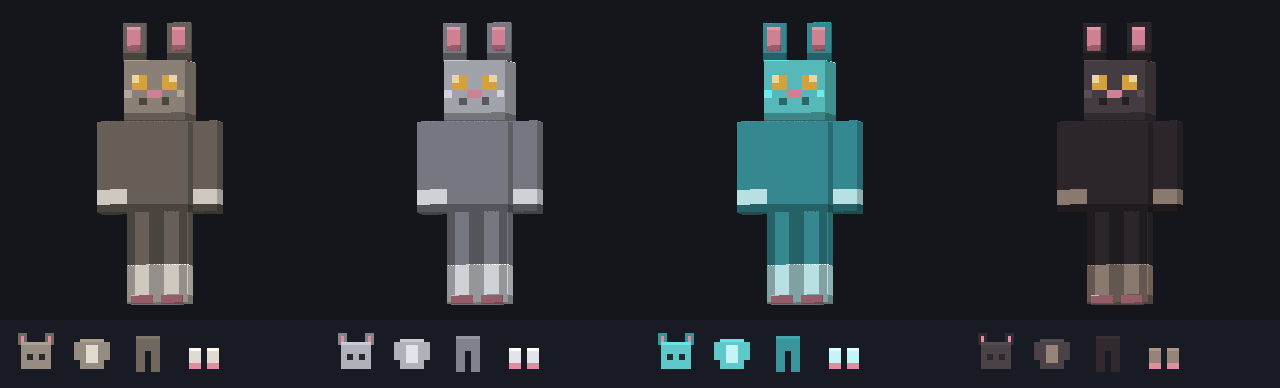
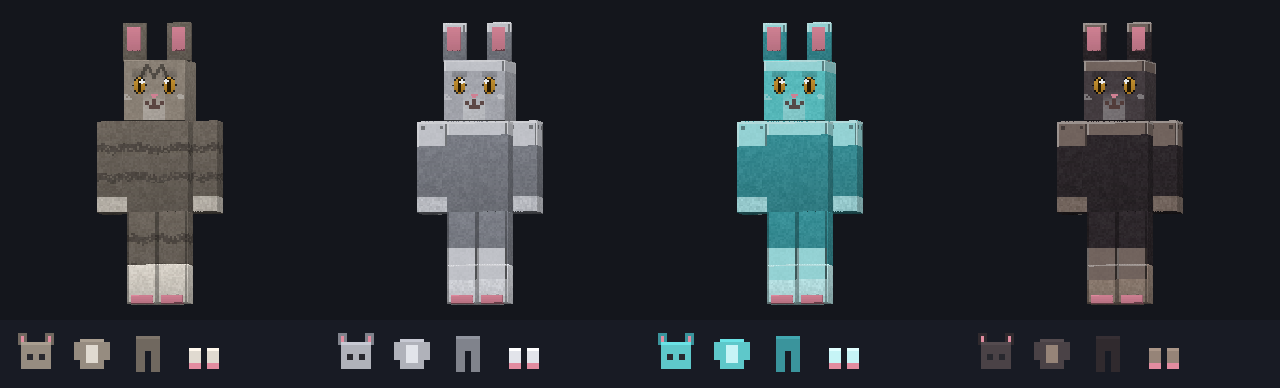
v3.41.0: dräkten får samma päls — fyra texlar per enhet
Spelarens kattdräkt var det sista som ritades i en texel per enhet; byxorna
bestod av tre färger. make_player_gear.py målar nu på ett 256x256-ark med
geometrin kvar på 64x64 (SKALA=4), med hjälparna från make_cat_pals.

Lädret är en tabby: ringar runt kropp, armar och ben, M i pannan, ansikte
med samma mandelögon, pupill, nos och ω-leende som katterna. Metallnivåerna
behåller pälsen i nivåns ton och får plåtar: pannband, bröstplåt med nitar,
axelkappor, bälte, knäskydd och tåhättor. Tassarna ljusa med dynor och
tåspringor, inga ringar.

Renderaren tar enheter= så ett ark i annan skala än geometrin samplas rätt;
purrfect-test tillåter heltalsmultipel för attachables.

Testat grönt inkl live-server, röktest och GameTest. Uppe på Mod Mate.

diff --git a/tools/make_player_gear.py b/tools/make_player_gear.py
@@ -32,12 +32,18 @@ avskalad).
 import json, math, os, sys
 
 BASE = os.path.dirname(os.path.dirname(os.path.abspath(__file__)))
-sys.path.insert(0, BASE)
+sys.path.insert(0, BASE); sys.path.insert(0, f"{BASE}/tools")
 import render_regression as rr
+from make_cat_pals import Duk, korn, blanda, skala, avst_segment, _h, ROSA, GLANS
 
 BP = f"{BASE}/PurrfectCompanions_BP"
 RP = f"{BASE}/PurrfectCompanions_RP"
-TW = TH = 64
+TW = TH = 64          # geometrins UV-ENHETER — arket är SKALA gånger det
+# FYRA TEXLAR PER ENHET sedan 3.41.0, samma mekanism som katternas pälsark:
+# geometrin deklarerar 64x64, PNG:en är 256x256 och Bedrock läser den tätare.
+# Innan dess bestod byxorna av tre färger och varje sida var ett färgfält —
+# bredvid katterna med ny päls såg spelaren ut som en kartong.
+SKALA = 4
 
 PALS      = (150, 140, 128, 255)   # varm kattgrå — syns mot både gräs och sten
 PALS_MORK = (112, 104, 95, 255)
@@ -199,57 +205,187 @@ def geometri(namn, cfg):
 
 
 def textur(namn, cfg, niv):
-    px = [[(0, 0, 0, 0)] * TW for _ in range(TH)]
+    """Dräktens ark. Läderdräkten är en tabbykatt (ringar runt kropp, armar och
+    ben, M i pannan, ränder över hjässan); metallnivåerna behåller pälsen i
+    nivåns ton och får PLÅTAR på: pannband, bröstplåt, axelkappor, bälte,
+    knäskydd och tåhättor. Så syns det på avstånd vilken nivå någon bär."""
+    n = NIVAER[niv]
+    duk = Duk(TW * SKALA, TH * SKALA)
+    pals, mork, ljus = n["pals"][:3], n["mork"][:3], n["ljus"][:3]
+    metall = bool(niv)
+    rand = None if metall else blanda(mork, (0, 0, 0), 0.30)
+    plat = blanda(ljus, pals, 0.35)
+    plat_ljus, plat_mork = blanda(plat, (255, 255, 255), 0.35), blanda(plat, (0, 0, 0), 0.40)
+    OG_MORK = (150, 100, 20)
 
-    def rect(x0, y0, w, h, c):
-        for y in range(int(y0), int(y0 + h)):
-            for x in range(int(x0), int(x0 + w)):
-                if 0 <= x < TW and 0 <= y < TH:
-                    px[y][x] = c
-    for b, origin, size, uv, farg0, _i in cfg["kuber"]:
-        farg = farga(farg0, niv)
+    def ytor(uv, size):
+        return {k: tuple(v * SKALA for v in r)
+                for k, r in rr.faces(uv[0], uv[1], *size).items()}
+
+    def pals_fn(bas, ringar=False, ring_rader=(0.30, 0.62)):
+        def fn(a, b, x, y):
+            c = skala(bas, 1.06 - 0.16 * b)
+            if rand and ringar:
+                for rb in ring_rader:
+                    if abs(b - rb + 0.02 * math.sin(a * 9)) < 0.045 and not (_h(x, y, 5) < 0.2):
+                        c = blanda(rand, c, 0.2)
+            return korn(c, x, y)
+        return fn
+
+    def plat_fn(rekt, nitar=True):
+        X0, Y0, FW, FH = rekt
+
+        def fn(a, b, x, y):
+            X, Y = a * FW, b * FH
+            c = plat
+            if X < 1.5 or Y < 1.5:
+                c = plat_ljus
+            elif X > FW - 1.5 or Y > FH - 1.5:
+                c = plat_mork
+            if nitar:
+                for nx in (3.0, FW - 3.0):
+                    for ny in (3.0, FH - 3.0):
+                        if abs(X - nx) < 1.0 and abs(Y - ny) < 1.0:
+                            c = plat_mork
+            return korn(c, x, y, 0.3)
+        return fn
+
+    def band(fn_pals, fn_plat, villkor):
+        """Plåt där villkor(a, b) gäller, päls annars."""
+        return lambda a, b, x, y: (fn_plat(a, b, x, y) if villkor(a, b) else fn_pals(a, b, x, y))
+
+    for b_, origin, size, uv, farg0, _i in cfg["kuber"]:
+        farg = farga(farg0, niv)[:3]
+        F = ytor(uv, size)
         w, h, d = size
-        fw, fh = fot(size)
-        rect(uv[0], uv[1], fw, fh, farg)
-        rect(uv[0], uv[1], fw, math.ceil(d), sh(farg, 1.14))
-        rect(uv[0], uv[1] + fh - 1, fw, 1, sh(farg, 0.72))
-        # KATTANSIKTET målas på huvudkubens framsida — utan det är luvan en
-        # slät låda på skallen, vilket är exakt vad som rapporterades från
-        # Xbox ("inga ögon"). Ögonen är bärnsten i alla nivåer: de ska läsa
-        # som katt även när materialet är diamant.
-        if b in ("leftLeg", "rightLeg"):
-            # KANTLINJE PÅ FRAM- OCH BAKSIDAN. Första försöket mörkade benens
-            # INNERSIDOR — men de ytorna sitter mellan benen och syns aldrig:
-            # när två lådor står kant i kant är ytorna mot varandra dolda.
-            # Det som syns är fram- och baksidan, så varje ben får en mörk
-            # pixelkant där. Då läser paret som två ben i stället för en
-            # pelare, vilket var felet: "fötterna smälter ihop".
-            _d, _w, _h = math.ceil(d), math.ceil(w), math.ceil(h)
-            for _fx in (uv[0] + _d, uv[0] + 2 * _d + _w):        # north, south
-                rect(_fx, uv[1] + _d, 1, _h, sh(farg, 0.72))
-                rect(_fx + _w - 1, uv[1] + _d, 1, _h, sh(farg, 0.72))
-        if b in ("leftArm", "rightArm"):
-            # MANSCHETT: sidytornas nedersta rader ligger sist i kubens
-            # utfällning (först djupet som topp/botten, sedan höjden). En ljus
-            # kant där ger armen ett tydligt slut i stället för att tona ut i
-            # spelarens hud.
-            rect(uv[0], uv[1] + fh - 3, fw, 2, farga(MAGE, niv))
+        SIDOR = ("north", "south", "east", "west")
+
         if namn == "luva" and size == [8, 8, 8]:
-            fx, fy = uv[0] + d, uv[1] + d
-            rect(fx + 1, fy + 2, 2, 2, OGON)          # vänster öga
-            # HÖGDAGERN SPEGLAS: båda låg på ögats vänstra pixel, vilket gav
-            # vänster öga glansen på utsidan och höger på insidan — ansiktet
-            # läste som att det sneglade ("ögonen sitter snett"). Allt annat i
-            # ansiktet var redan spegelsymmetriskt, uppmätt pixel för pixel.
-            rect(fx + 5, fy + 2, 2, 2, OGON)          # höger öga
-            rect(fx + 1, fy + 2, 1, 1, OGON_GLANS)
-            rect(fx + 6, fy + 2, 1, 1, OGON_GLANS)
-            rect(fx + 3, fy + 4, 2, 1, ORA_IN)        # nos
-            rect(fx + 2, fy + 5, 1, 1, sh(farg, 0.55))   # mungipor
-            rect(fx + 5, fy + 5, 1, 1, sh(farg, 0.55))
-            for mx in (fx, fx + 7):                   # morrhår
-                rect(mx, fy + 4, 1, 1, sh(farg, 1.3))
-    rr.write_png(f"{RP}/textures/entity/mjau_{ident(namn, niv)}.png", TW, TH, px)
+            # HJÄSSAN: ränder längs huvudet på läderdräkten, pannband på metall.
+            def hjassa(a, b, x, y):
+                c = skala(farg, 1.06)
+                if rand:
+                    for ca in (0.2, 0.5, 0.8):
+                        if abs(a - ca) < 0.045 + 0.02 * math.sin(b * 9 + ca * 5) and b > 0.1:
+                            c = blanda(rand, c, 0.15)
+                return korn(c, x, y)
+            duk.yta(F["top"], hjassa, 255)
+            duk.yta(F["bottom"], lambda a, b, x, y: korn(skala(farg, 0.7), x, y), 255)
+            for sida in ("east", "west", "south"):
+                fn = pals_fn(farg)
+                if metall:
+                    fn = band(fn, plat_fn(F[sida], nitar=False), lambda a, b: b < 0.2)
+                duk.yta(F[sida], fn, 255)
+            # ANSIKTET, samma anatomi som katternas: mandelögon med kant, iris
+            # i bärnsten, lodrät pupill och glans, rosa nos och ett ω-leende.
+            X0, Y0, FW, FH = F["north"]
+            OGON_C = [(FW * 0.25, FH * 0.42, +1), (FW * 0.75, FH * 0.42, -1)]
+            RX, RY = FW * 0.11, FH * 0.15
+            mork_ans = blanda(farg, (0, 0, 0), 0.75)
+            nosparti = blanda(farg, (255, 255, 255), 0.30)
+            mun = blanda(mork_ans, (150, 108, 104), 0.55)
+
+            def ansikte(a, b, x, y):
+                X, Y = a * FW, b * FH
+                c = farg
+                if metall and b < 0.2:
+                    return plat_fn(F["north"], nitar=False)(a, b, x, y)
+                if abs(a - 0.5) < 0.2 and b > 0.5:
+                    c = blanda(c, nosparti, min(1.0, (b - 0.5) / 0.25))
+                if rand and b < 0.36:
+                    m = [((8, 11), (12, 3)), ((12, 3), (16, 9)), ((16, 9), (20, 3)), ((20, 3), (24, 11))]
+                    m = [((p[0] * FW / 32, p[1] * FH / 32), (q[0] * FW / 32, q[1] * FH / 32)) for p, q in m]
+                    if min(avst_segment(X, Y, *p, *q) for p, q in m) < 0.8:
+                        c = blanda(rand, c, 0.15)
+                for cx, cy, _ in OGON_C:
+                    if abs(X - cx) < RX + 0.6 and Y < cy - RY:
+                        c = blanda(c, mork_ans, 0.28 * max(0.0, 1 - (cy - RY - Y) / (FH * 0.15)))
+                # morrhårsprickar
+                if abs(b - 0.62) < 0.05 and (a < 0.12 or a > 0.88) and _h(x, y, 7) < 0.5:
+                    c = blanda(c, (255, 255, 255), 0.35)
+                c = korn(c, x, y, 0.7)
+                # nosen och munnen
+                if abs(X - FW / 2) < 2.6 - (Y - FH * 0.55) * 0.9 and FH * 0.55 <= Y < FH * 0.68:
+                    return ROSA
+                if abs(X - FW / 2) < 0.9 and FH * 0.66 <= Y < FH * 0.76:
+                    return mun
+                if FH * 0.74 <= Y < FH * 0.80 and abs(X - FW / 2) < FW * 0.10:
+                    return mun
+                if FH * 0.69 <= Y < FH * 0.76 and FW * 0.09 < abs(X - FW / 2) < FW * 0.15:
+                    return mun
+                for cx, cy, inat in OGON_C:
+                    dx, dy = (X - cx) / RX, (Y - cy) / RY
+                    r = math.hypot(dx, dy)
+                    if r > 1.0:
+                        continue
+                    if r > 0.86:
+                        return mork_ans
+                    iris = blanda(OGON[:3], OG_MORK, max(0.0, min(1.0, 0.15 + 0.55 * (dy + 1) / 2)))
+                    if abs(X - cx) < 0.75 and abs(Y - cy) < RY * 0.70:
+                        iris = blanda(OG_MORK, (0, 0, 0), 0.75)
+                    if math.hypot(X - (cx + inat * RX * 0.42), Y - (cy - RY * 0.42)) < 1.15:
+                        iris = GLANS
+                    return iris
+                return c
+            duk.yta(F["north"], ansikte, 255)
+            continue
+
+        if farg0 == ORA_IN or farg0 == DYNA:
+            # inneröron och trampdynor: rosa, en aning mörkare nedåt
+            for sida in F:
+                duk.yta(F[sida], lambda a, b, x, y: blanda(farg, (0, 0, 0), 0.12 * b), 255)
+            continue
+
+        if namn == "luva":                                      # öronen
+            for sida in F:
+                fn = pals_fn(farg)
+                if metall:
+                    fn = band(fn, plat_fn(F[sida], nitar=False), lambda a, b: b < 0.25)
+                duk.yta(F[sida], fn, 255)
+            continue
+
+        if namn == "vast" and farg0 == MAGE:                    # bringan
+            for sida in F:
+                fn = plat_fn(F[sida]) if metall else pals_fn(farg)
+                duk.yta(F[sida], fn, 255)
+            continue
+
+        # KROPP, ARMAR, BEN, FÖTTER — päls med ringar på lädret, plåtar på metall.
+        for sida in ("top", "bottom"):
+            fn = pals_fn(farg)
+            if metall and namn == "tassar" and sida == "top":
+                fn = band(fn, plat_fn(F[sida], nitar=False), lambda a, b: b < 0.5)
+            duk.yta(F[sida], fn, 255)
+        for sida in SIDOR:
+            rekt = F[sida]
+            fn = pals_fn(farg, ringar=(namn != "tassar"))       # tassar är ljusa, inte randiga
+            if metall:
+                if b_ == "body" and namn == "byxor":
+                    fn = band(fn, plat_fn(rekt, nitar=False), lambda a, b: b < 0.14)     # bälte
+                elif b_ in ("leftArm", "rightArm"):
+                    fn = band(fn, plat_fn(rekt), lambda a, b: b < 0.27)                 # axelkappa
+                elif b_ in ("leftLeg", "rightLeg") and namn == "byxor" and sida == "north":
+                    fn = band(fn, plat_fn(rekt), lambda a, b: 0.40 < b < 0.62)          # knäskydd
+                elif namn == "tassar" and sida == "north":
+                    fn = band(fn, plat_fn(rekt, nitar=False), lambda a, b: b < 0.38)    # tåhätta
+
+            def kant(fn0, sida=sida, rekt=rekt):
+                X0, Y0, FW, FH = rekt
+
+                def fn2(a, b, x, y):
+                    X, Y = a * FW, b * FH
+                    c = fn0(a, b, x, y)
+                    if b_ in ("leftLeg", "rightLeg") and sida in ("north", "south") and (X < 1.5 or X > FW - 1.5):
+                        return blanda(c, (0, 0, 0), 0.30)        # skarven mellan benen
+                    if b_ in ("leftArm", "rightArm") and b > 0.84:
+                        return korn(blanda(ljus, c, 0.25), x, y)  # manschett
+                    if namn == "tassar" and sida == "north" and b > 0.78 and (abs(a - 0.33) < 0.05 or abs(a - 0.67) < 0.05):
+                        return blanda(c, (0, 0, 0), 0.2)         # tåspringor
+                    return c
+                return fn2
+            duk.yta(rekt, kant(fn), 255)
+
+    rr.write_png(f"{RP}/textures/entity/mjau_{ident(namn, niv)}.png", TW * SKALA, TH * SKALA, duk.px)
 
 
 def attachable(namn, cfg, niv):
@@ -391,7 +527,7 @@ def forhandsbild():
                 ben.append((b["name"], b["pivot"], kub))
             rr.bones_for = lambda acc, _l=ben: _l
             vy = rr.render(f"mjau_{ident(namn, niv)}", [], {}, W=RUTA, H=RUTA,
-                           yaw=10, pitch=3, ram=RAM)
+                           yaw=10, pitch=3, ram=RAM, enheter=(TW, TH))
             if lager is None:
                 lager = [list(r) for r in vy]
                 bg = vy[0][0]

diff --git a/render_regression.py b/render_regression.py
@@ -109,10 +109,13 @@ def faces(U, V, w, h, d):
 SH = {"top": 1.00, "bottom": 0.45, "north": 0.92, "south": 0.55, "east": 0.72, "west": 0.66}
 
 
-def texturer(cat):
-    """Atlas och (om den finns) pälsark, som (bild, bredd, höjd, texlar per uv-enhet)."""
+def texturer(cat, enheter=None):
+    """Atlas och (om den finns) pälsark, som (bild, bredd, höjd, texlar per uv-enhet).
+    enheter = geometrins deklarerade (texture_width, texture_height) för atlaset;
+    utelämnad betyder en texel per enhet (kattens plaggatlas). Dräkten deklarerar
+    64x64 men ritas ur ett 256x256-ark, och skickar in sina enheter."""
     tw, th, tex = read_png(f"{RP}/textures/entity/{cat}.png")
-    ut = {"default": (tex, tw, th, 1.0)}
+    ut = {"default": (tex, tw, th, tw / enheter[0] if enheter else 1.0)}
     pp = f"{RP}/textures/entity/{cat}_pals.png"
     if os.path.exists(pp):
         pw, ph, ptex = read_png(pp)
@@ -120,8 +123,8 @@ def texturer(cat):
     return ut
 
 
-def render(cat, acc, pose, W=SIZE, H=SIZE, yaw=34, pitch=16, ram=None):
-    TEX = texturer(cat)
+def render(cat, acc, pose, W=SIZE, H=SIZE, yaw=34, pitch=16, ram=None, enheter=None):
+    TEX = texturer(cat, enheter)
     bones = bones_for(acc)
     ya, pa = math.radians(yaw), math.radians(pitch)
 

diff --git a/tools/promo/make_video.py b/tools/promo/make_video.py
@@ -22,6 +22,7 @@ import math, multiprocessing, os, shutil, subprocess, sys
 
 BASE = os.path.dirname(os.path.dirname(os.path.dirname(os.path.abspath(__file__))))
 sys.path.insert(0, BASE)
+import json
 import render_regression as rr
 
 W, H, FPS = 480, 270, 30
@@ -190,6 +191,12 @@ def trio_ruta(t, yaw):
     return img
 
 
+def drakt_enheter():
+    """Dräktgeometrins deklarerade uv-storlek — arket är större (4 texlar/enhet)."""
+    d = json.load(open(f"{rr.RP}/models/entity/mjau_luva.geo.json"))["minecraft:geometry"][0]["description"]
+    return (d["texture_width"], d["texture_height"])
+
+
 def drakt_ruta(niv, yaw):
     """Hela dräkten i en ruta: fyra renderingar lagda på varandra."""
     bild = bg = None
@@ -198,7 +205,7 @@ def drakt_ruta(niv, yaw):
         rr.bones_for = lambda acc, _l=drakt_ben(del_): _l
         try:
             vy = rr.render(f"mjau_{del_}{niv}", [], {}, W=W, H=H,
-                           yaw=yaw, pitch=4, ram=DRAKT_RAM)
+                           yaw=yaw, pitch=4, ram=DRAKT_RAM, enheter=drakt_enheter())
         finally:
             rr.bones_for = orig
         if bild is None:

diff --git a/changelog-pending.md b/changelog-pending.md
@@ -7,7 +7,37 @@ CurseForge inte har blir en mismatch.)
 
 ---
 
+## 3.41.0 — The cat suit gets the same fur
+
+The player's cat suit was the last thing still drawn at one texel per unit,
+and next to the new cats it looked like cardboard: the trousers were three
+colours in total. It is on its own 256x256 sheet now, four texels per unit,
+like the cats.
+
+The **leather suit is a tabby**: rings round the body, arms and legs, an M on
+the forehead, and a face with the same almond eyes, vertical pupil, pink nose
+and small smile as the cats. Paws are light with pads and toe splits.
+
+The **metal tiers** used to be the same suit in another colour. They keep the
+fur, in iron, diamond or netherite tint, and wear plates on top of it: a brow
+band on the hood, a chest plate with rivets, shoulder caps, a belt, knee
+guards and toe caps. You can tell the tier at a distance now.
+
+---
+
 <!-- ALLT NEDANFÖR ÄR PROJEKTETS EGEN LOGG och ska INTE med till butiken. -->
+
+## Dräkten (projektlogg, 3.41.0)
+
+`tools/make_player_gear.py` målar dräkten i SKALA=4 på ett 256x256-ark
+(geometrin deklarerar fortfarande 64x64); hjälparna importeras från
+make_cat_pals (Duk, korn, blanda …). Renderaren fick `enheter=` för att kunna
+sampla ett ark i annan skala än geometrin — dräkt- och hundrenderingar skickar
+tretupler och fick förut alltid en texel per enhet. purrfect-test tillåter
+heltalsmultipel för attachables. OBS: förhandsbildens lager läggs luva → väst →
+byxor → tassar och byxornas bålkub täcker västens ljusa bringa i BILDEN; i
+spelet ligger bringan 0,05 framför (inflate) och syns, verifierat på Xbox
+tidigare. Renderaren slänger inflate.
 
 ## Pälsarket (projektlogg, 3.40.0)
 

diff --git a/README.md b/README.md
@@ -117,8 +117,12 @@ and you get the leather bonus.
 | **Cat Trousers** | legs | Darker fur |
 | **Cat Paws** | feet | Pale paws with pink pads |
 
-Every piece keeps the ears and pads across all four tiers; only the material
-colour changes.
+Every piece keeps the ears and pads across all four tiers. The leather suit
+is a tabby — rings round the body, arms and legs, an M on the forehead, a
+face with the same almond eyes as the cats — and the metal tiers keep the fur
+in their own colour and add plates on top: a brow band, a chest plate,
+shoulder caps, a belt, knee guards and toe caps. The suit is drawn on its own
+256x256 sheet at four texels per model unit, like the cats.
 
 These are the pack's first **attachables** — the parts that draw on the player
 body rather than on a cat. `tools/make_player_gear.py` emits the geometry,
